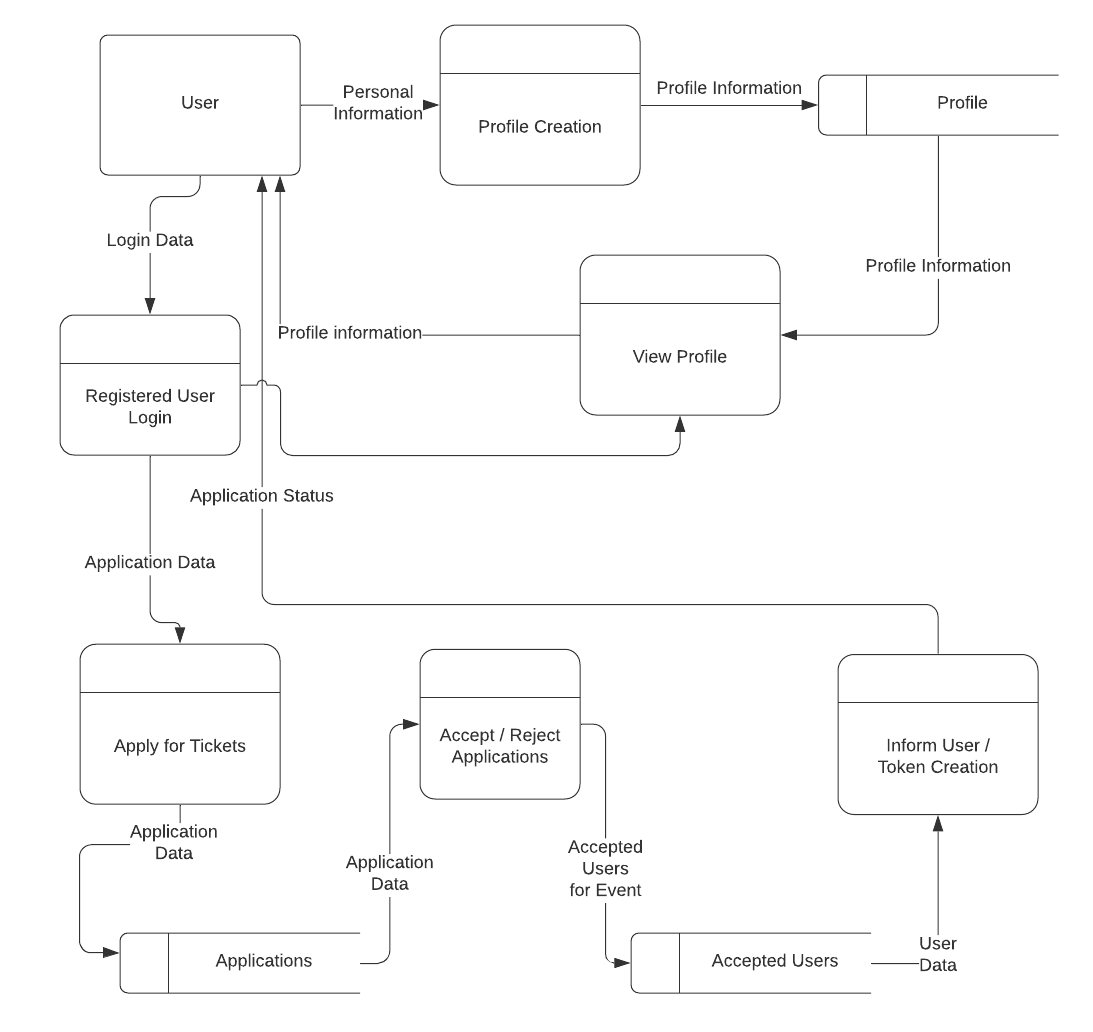
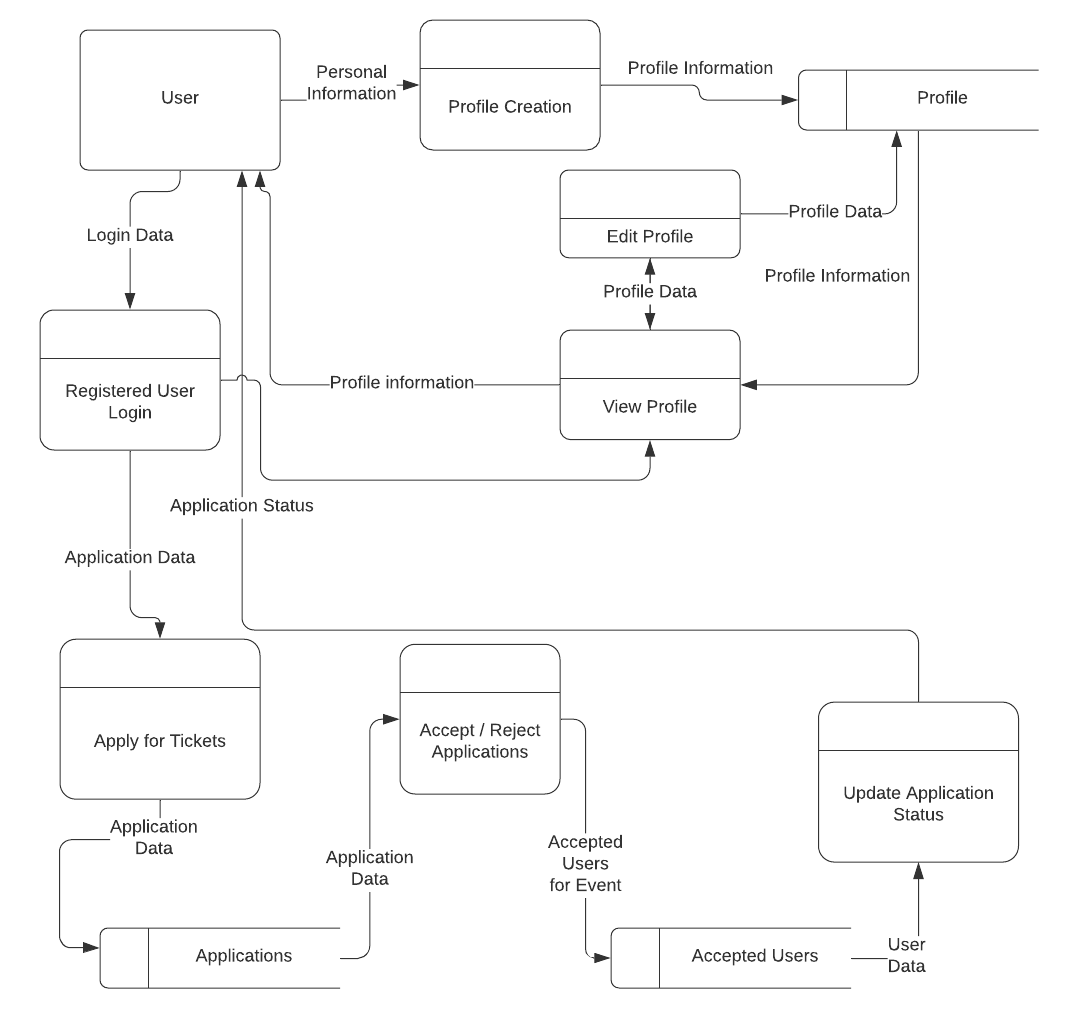
updated dataflow diagram

diff --git a/README.md b/README.md
@@ -8,9 +8,22 @@ Luisa Ziccarelli | https://github.com/luisaziccarelli
 ## Purpose
 Secret Gigs allows bands to connect with their fan-base in a live setting during COVID times. Due to audience restrictions and venues being generally closed, this app allows fans to attend events in secret locations for a limited number of attendees by a random selection process. The idea is to keep the social distancing and safety measures in place, while allowing safe and controlled events.
 
-## Functionality / features
+## Functionality
+
+## Features
+- User Registration
+- Login
+- Account section with Profile and Event Applications, listing current available events to apply to
+- Ability to apply to events.
+- Ability to edit Profile
+- Ability to get an application accepted or denied
+
+Sprinkles:
+- When application is accepted, can go into Payment page
+- When application is paid for, user gets gig details
+
 ## Target audience
-Specific bands fan-base, music, concert and live music enthusiasts that haven't attended any live gigs due to current events. This also works under "normal" conditions, having the ability to increase the attendees per venue as needed.
+Specific bands fan-base, music, concert and live music enthusiasts that haven't attended any live gigs due to current events. This also works under "normal" conditions, having the ability to increase the attendees per venue as needed. Specific audiences would relate to the type of music, genre, year, etc.
 
 ## Tech stack
 
